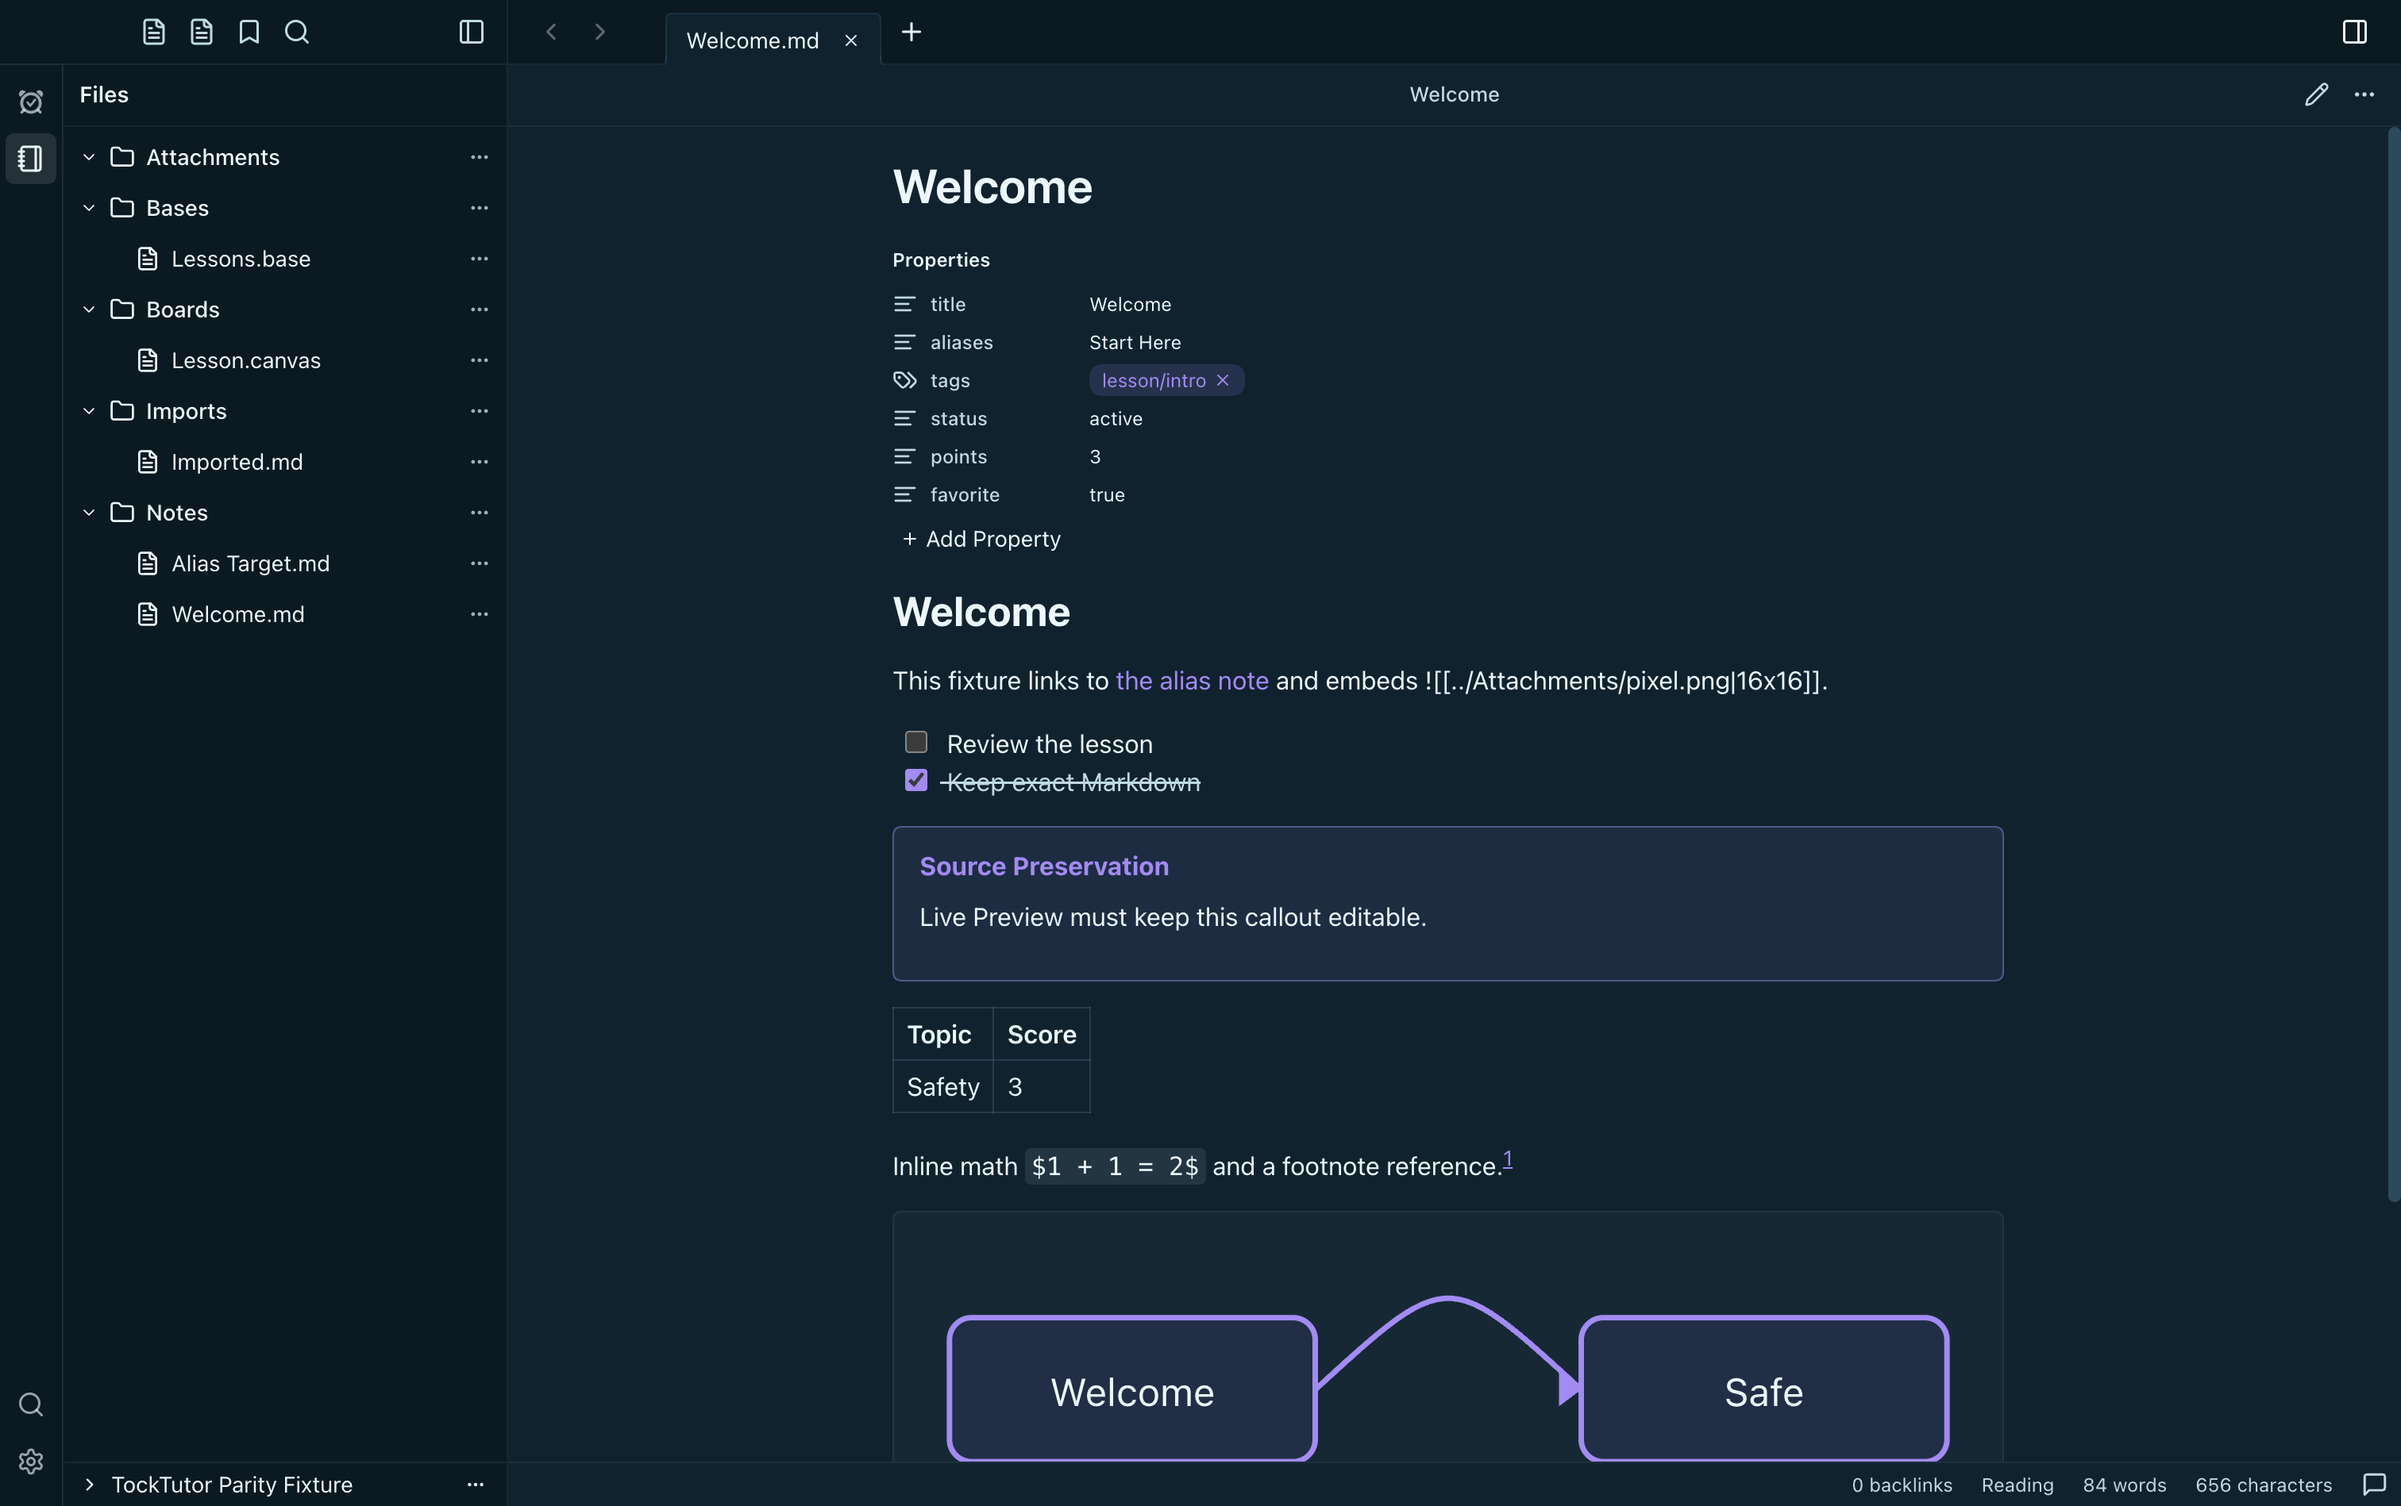
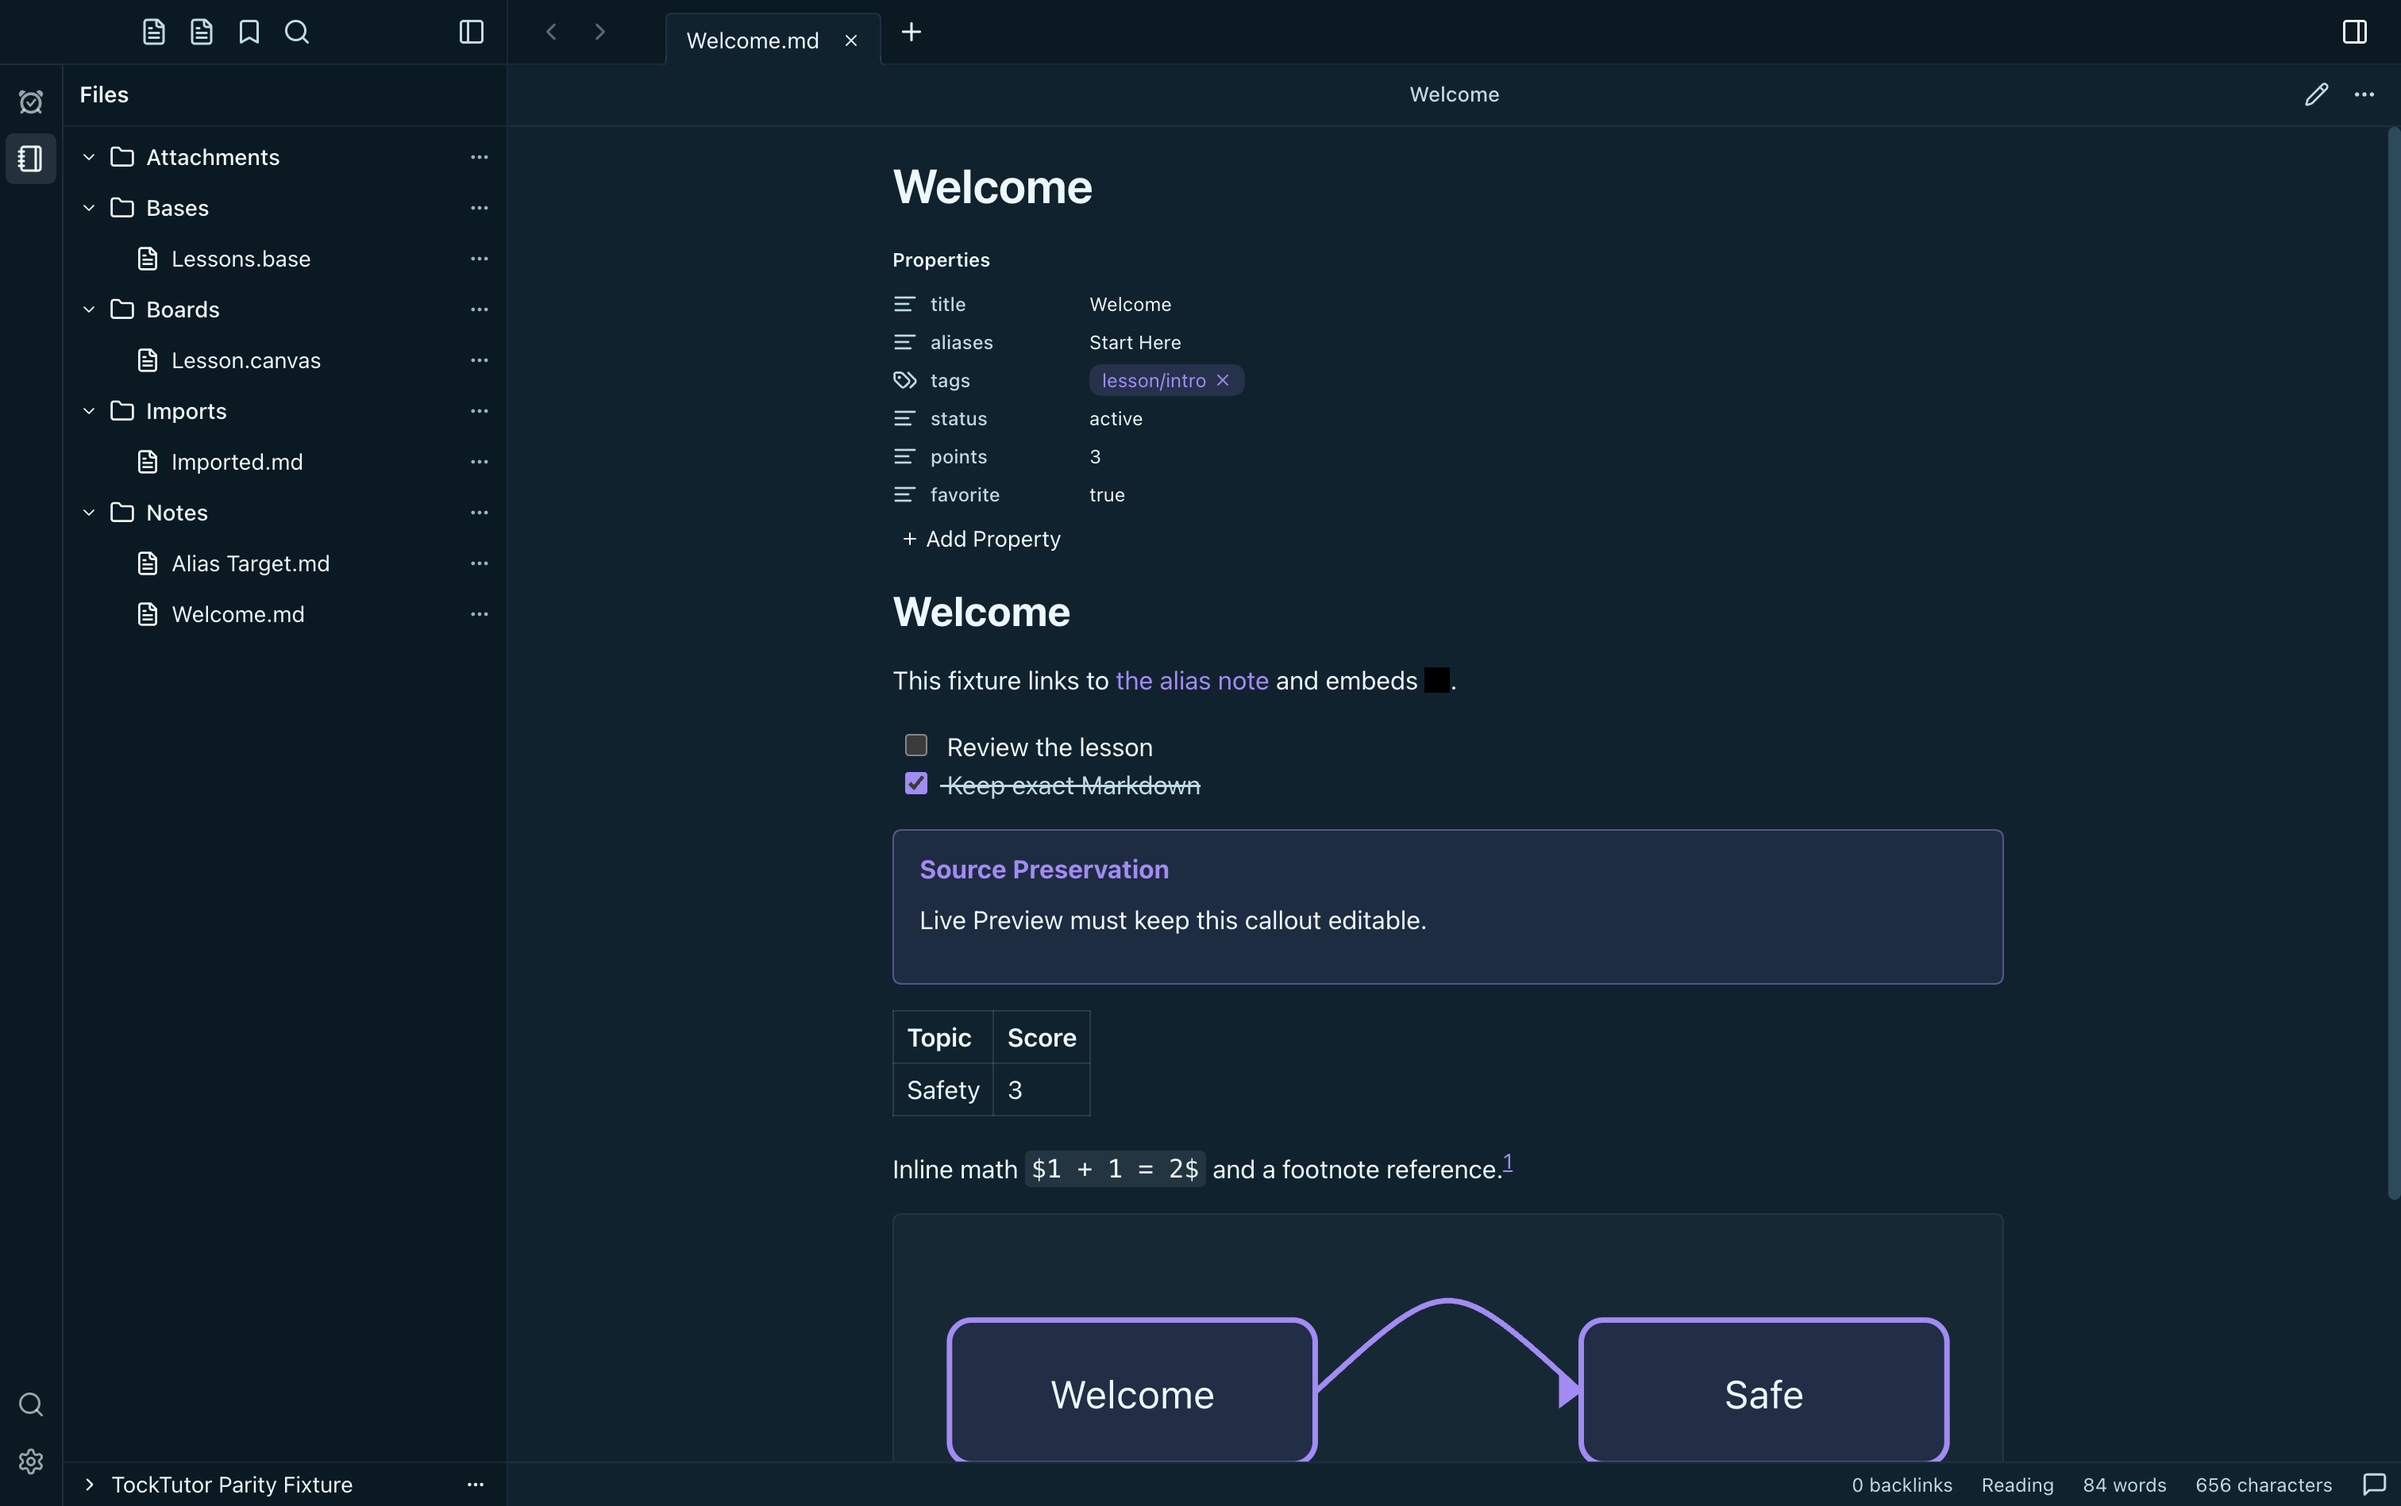
evidence(tocktutor): prove local embed parity

diff --git a/.agents/uiux/tocktutor/tocktutor.html b/.agents/uiux/tocktutor/tocktutor.html
@@ -129,7 +129,7 @@
     <div class="header-inner">
       <p class="eyebrow">Visual Design Audit · 46 Captures</p>
       <h1>TockTutor and Obsidian</h1>
-      <p class="intro">A surface-by-surface comparison using one capture geometry. TockTutor appears on the left and the closest available Obsidian reference appears on the right. Each capture uses the fixture named in its proof: the <a href="shared-note.md">shared Markdown fixture</a> where noted, or the matching <a href="../../../plugins/tocktutor/parity/fixtures/vault/">parity fixture files</a> for Source, Reading View, and Recovery. Click any screenshot to inspect its full-resolution pixels.</p>
+      <p class="intro">A surface-by-surface comparison using one capture geometry. TockTutor appears on the left and the closest available Obsidian reference appears on the right. Each capture uses the fixture named in its proof: the <a href="shared-note.md">shared Markdown fixture</a> where noted, or the matching <a href="../../../plugins/tocktutor/parity/fixtures/vault/">parity fixture files</a> for Source, Reading View, Recovery, and Attachments and Embeds. Click any screenshot to inspect its full-resolution pixels.</p>
       <div class="capture-standard">1512 × 949 CSS pixels · 2× scale · 3024 × 1898 output</div>
       <div class="legend" aria-label="Comparison legend">
         <span class="tt">TockTutor</span>
@@ -152,7 +152,7 @@
     </section>
 
     <section class="surface" id="reading">
-      <p class="section-number">Surface 02</p><h2>Reading View</h2><p class="section-note">Parity-fixture rendering covers typography, measure, metadata, tasks, callout tinting, fenced code, safe HTML, hidden block IDs, and accessible Mermaid SVGs. Raw image embeds remain deferred to the Attachments and Embeds tranche.</p>
+      <p class="section-number">Surface 02</p><h2>Reading View</h2><p class="section-note">Parity-fixture rendering covers typography, measure, metadata, tasks, callout tinting, fenced code, safe HTML, hidden block IDs, accessible Mermaid SVGs, and Host-resolved local media and note embeds rendered inline.</p>
       <p class="fixture-proof"><strong>Fixture Proof:</strong> tracked <code>plugins/tocktutor/parity/fixtures/vault/Notes/Welcome.md</code> and copied <code>TockTutor Parity Fixture/Notes/Welcome.md</code> use the same normalized bytes for both isolated surfaces: 656 bytes and SHA-256 <code>sha256:d8604ce74b20976b7497542d67bfe8ab546c54140de77a450d19edad6f62181c</code>. Equality is explicit: tracked and copied byte counts and SHA-256 values match.</p>
       <div class="comparison">
         <figure class="tocktutor"><figcaption><span class="caption-title">TockTutor · Reading View</span><span class="badge">Current</span></figcaption><a class="screenshot-link" href="screenshots/tocktutor-editor-reading.png"><img src="screenshots/tocktutor-editor-reading.png" alt="TockTutor reading view"></a></figure>
@@ -261,9 +261,10 @@
     </section>
 
     <section class="surface" id="attachments">
-      <p class="section-number">Surface 14</p><h2>Attachments and Embeds</h2><p class="section-note">Resolved embeds, attachments, and preview controls.</p>
+      <p class="section-number">Surface 14</p><h2>Attachments and Embeds</h2><p class="section-note">Host-resolved local media renders inline in Reading View and remains inspectable in the Attachments and Embeds panel. External HTTP(S) media stays behind the isolated Web Viewer.</p>
+      <p class="fixture-proof"><strong>Embed Proof:</strong> tracked <code>plugins/tocktutor/parity/fixtures/vault/Attachments/pixel.png</code> and copied <code>TockTutor Parity Fixture/Attachments/pixel.png</code> use the same 68 bytes and SHA-256 <code>sha256:431ced6916a2a21a156e38701afe55bbd7f88969fbbfc56d7fe099d47f265460</code>; equality is explicit because tracked and copied byte counts and hashes match. The isolated <code>Notes/Welcome.md</code> fixture resolves <code>![[../Attachments/pixel.png|16x16]]</code> to <code>Attachments/pixel.png</code> as <code>image/png</code>; the Reading capture places it at 16 × 16 CSS pixels, and the utility capture reports one resolved embed and one attachment with no visible tooltip.</p>
       <div class="comparison">
-        <figure class="tocktutor"><figcaption><span class="caption-title">TockTutor · Attachments and Embeds</span><span class="badge">Current</span></figcaption><a class="screenshot-link" href="screenshots/tocktutor-attachments-embeds.png"><img src="screenshots/tocktutor-attachments-embeds.png" alt="TockTutor attachments and embeds"></a></figure>
+        <figure class="tocktutor"><figcaption><span class="caption-title">TockTutor · Attachments and Embeds</span><span class="badge">Current</span></figcaption><a class="screenshot-link" href="screenshots/tocktutor-attachments-embeds.png"><img src="screenshots/tocktutor-attachments-embeds.png" alt="TockTutor attachments and embeds with a resolved local image"></a></figure>
         <figure><figcaption><span class="caption-title">Obsidian · Attachments</span><span class="badge">Not Captured</span></figcaption><div class="missing-reference"><strong>No Direct Capture</strong><p>A matching Obsidian attachment-management state was not captured.</p></div></figure>
       </div>
     </section>
